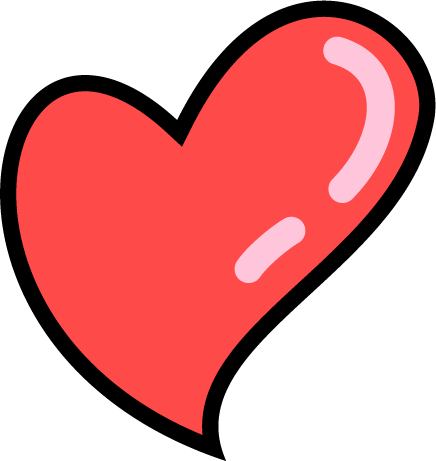
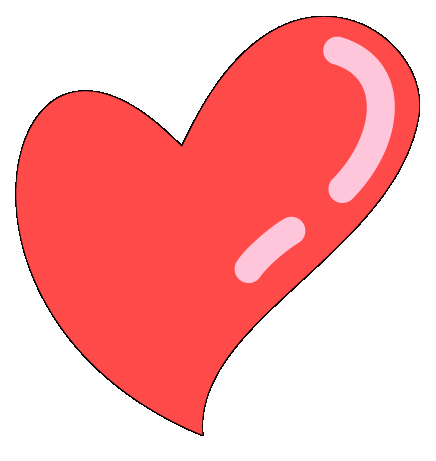
Give hearts the same lit cards as grass, without SAO rectangles
Punch leftover black paper from the heart texture, render hearts as standard-material planes that receive light and cast blade-shaped shadows, and hide them during the SAO depth pass.

Changed region(s): [[0.0, 0.0, 1.0, 1.0]]

diff --git a/src/entities/Target.ts b/src/entities/Target.ts
@@ -67,7 +67,7 @@ export class Target {
   private onEscape: ((t: Target) => void) | null = null;
   private onFreeSlot: (() => void) | null = null;
   private visual: THREE.Object3D;
-  private spriteMat: THREE.SpriteMaterial | null = null;
+  private heartMat: THREE.MeshStandardMaterial | null = null;
   private ownsGoldMaterials = false;
   private fading = false;
   private fadeT = 0;
@@ -79,7 +79,7 @@ export class Target {
   private warned = false;
   private slotFreed = false;
   private frenzyGlowMats: Array<{
-    mat: THREE.MeshBasicMaterial | THREE.SpriteMaterial;
+    mat: THREE.Material & { opacity: number };
     baseOpacity: number;
   }> = [];
   private frenzyGlowPulse = 0;
@@ -151,19 +151,10 @@ export class Target {
       this.ownsGoldMaterials = true;
       this.root.add(this.visual);
     } else {
-      const map = ModelCache.getTexture('heart');
-      this.spriteMat = new THREE.SpriteMaterial({
-        map,
-        transparent: true,
-        depthTest: true,
-        depthWrite: false,
-        opacity: 1,
-      });
-      const sprite = new THREE.Sprite(this.spriteMat);
-      const size = gameConfig.heartSize;
-      sprite.scale.set(size, size, 1);
-      this.visual = sprite;
-      this.root.add(sprite);
+      const mesh = ModelCache.createHeart();
+      this.heartMat = mesh.material as THREE.MeshStandardMaterial;
+      this.visual = mesh;
+      this.root.add(mesh);
     }
 
     const proxy = ModelCache.createHitProxy();
@@ -177,6 +168,7 @@ export class Target {
     this.setupPath(spec);
     scene.add(this.root);
     this.root.scale.setScalar(0.01);
+    if (kind === 'heart') this.visual.lookAt(0, this.root.position.y, 635);
   }
 
   /**
@@ -184,19 +176,39 @@ export class Target {
    * not a detached halo).
    */
   private attachFrenzyGlow(): void {
-    const size =
-      this.kind === 'heart' ? gameConfig.heartSize : gameConfig.targetSize;
+    // Heart cards use a mapped additive plane — BackSide shells would be a
+    // solid rectangle around the transparent quad.
+    if (this.kind === 'heart' && this.heartMat && this.visual instanceof THREE.Mesh) {
+      for (const shell of [
+        { scale: 1.12, opacity: 1 },
+        { scale: 1.24, opacity: 0.675 },
+      ]) {
+        const backMat = this.heartMat.clone();
+        backMat.color.setHex(0x3aa8ff);
+        backMat.opacity = shell.opacity;
+        backMat.depthWrite = false;
+        backMat.blending = THREE.AdditiveBlending;
+        backMat.transparent = true;
+        this.frenzyGlowMats.push({ mat: backMat, baseOpacity: shell.opacity });
+        const back = new THREE.Mesh(this.visual.geometry, backMat);
+        back.scale.setScalar(shell.scale);
+        back.position.z = -0.02;
+        back.castShadow = false;
+        back.receiveShadow = false;
+        back.userData.skipSao = true;
+        this.visual.add(back);
+      }
+      return;
+    }
 
     // Collect first — adding children during traverse would recurse forever.
     const meshes: THREE.Mesh[] = [];
     this.visual.traverse((obj) => {
       if (!(obj instanceof THREE.Mesh) || !obj.geometry) return;
-      // Skip invisible hit proxies if any got parented under visual.
       if (obj.material instanceof THREE.MeshBasicMaterial && !obj.material.visible) return;
       meshes.push(obj);
     });
 
-    // Two shells: bright rim + softer outer glow (thicker / +50% opacity).
     const shells: Array<{ scale: number; opacity: number; color: number }> = [
       { scale: 1.068, opacity: 1, color: 0x5ec8ff },
       { scale: 1.135, opacity: 0.825, color: 0x2a8cff },
@@ -216,25 +228,6 @@ export class Target {
         outline.scale.setScalar(shell.scale);
         outline.renderOrder = (obj.renderOrder || 0) - 1;
         obj.add(outline);
-      }
-    }
-
-    // Heart sprite — blue silhouette rim behind the icon.
-    if (this.kind === 'heart' && this.spriteMat) {
-      for (const shell of [
-        { scale: 1.12, opacity: 1 },
-        { scale: 1.24, opacity: 0.675 },
-      ]) {
-        const backMat = this.spriteMat.clone();
-        backMat.color.setHex(0x3aa8ff);
-        backMat.opacity = shell.opacity;
-        backMat.depthWrite = false;
-        backMat.blending = THREE.AdditiveBlending;
-        this.frenzyGlowMats.push({ mat: backMat, baseOpacity: shell.opacity });
-        const back = new THREE.Sprite(backMat);
-        back.scale.set(size * shell.scale, size * shell.scale, 1);
-        back.position.z = -0.5;
-        this.root.add(back);
       }
     }
   }
@@ -449,10 +442,10 @@ export class Target {
         const h = this.knockHalfH;
         this.visual.position.set(0, h * (Math.cos(angle) - 1), h * Math.sin(angle));
         // Soft fade on the last third so the body clears cleanly.
-        if (this.spriteMat) this.spriteMat.opacity = t < 0.65 ? 1 : 1 - (t - 0.65) / 0.35;
+        if (this.heartMat) this.heartMat.opacity = t < 0.65 ? 1 : 1 - (t - 0.65) / 0.35;
       } else {
         this.root.scale.setScalar(this.startScale * (1 - 0.7 * t));
-        if (this.spriteMat) this.spriteMat.opacity = 1 - t;
+        if (this.heartMat) this.heartMat.opacity = 1 - t;
       }
       if (t >= 1) this.destroy();
       return;
@@ -510,6 +503,10 @@ export class Target {
     }
 
     this.root.scale.setScalar(pop);
+
+    if (this.kind === 'heart' && !this.knockDown) {
+      this.visual.lookAt(0, this.root.position.y, 635);
+    }
 
     // Path movers keep going until the route ends — don't cut them mid-path.
     // Close targets telegraph exit by sinking (no blink-out). Windows still blink.
@@ -589,7 +586,10 @@ export class Target {
       ModelCache.disposeGoldMaterials(this.visual);
       this.ownsGoldMaterials = false;
     }
+    if (this.visual instanceof THREE.Mesh && this.heartMat) {
+      ModelCache.disposeHeart(this.visual);
+      this.heartMat = null;
+    }
     this.root.parent?.remove(this.root);
-    this.spriteMat?.dispose();
   }
 }

diff --git a/src/world/ModelCache.ts b/src/world/ModelCache.ts
@@ -48,6 +48,10 @@ export class ModelCache {
 
     heartMap.colorSpace = THREE.SRGBColorSpace;
     heartMap.anisotropy = 1;
+    heartMap.generateMipmaps = false;
+    heartMap.minFilter = THREE.LinearFilter;
+    heartMap.magFilter = THREE.LinearFilter;
+    heartMap.needsUpdate = true;
     this.textures.set('heart', heartMap);
 
     this.templates.set('bubble', this.normalizeTemplate(bubbleGltf.scene, gameConfig.targetSize));
@@ -113,6 +117,50 @@ export class ModelCache {
       }
     });
     for (const map of maps) map.dispose();
+  }
+
+  private static heartGeo: THREE.PlaneGeometry | null = null;
+  private static heartDepthMat: THREE.MeshDepthMaterial | null = null;
+  private static heartAspect = 1;
+
+  /** Lit, shadow-casting heart card. Caller must dispose the cloned material. */
+  static createHeart(): THREE.Mesh {
+    const map = this.getTexture('heart');
+    if (!this.heartGeo) {
+      this.heartGeo = new THREE.PlaneGeometry(1, 1);
+      this.heartDepthMat = new THREE.MeshDepthMaterial({
+        map,
+        alphaTest: 0.55,
+        depthPacking: THREE.RGBADepthPacking,
+      });
+      const img = map.image as { width: number; height: number };
+      this.heartAspect = img.width / Math.max(1, img.height);
+    }
+    const mat = new THREE.MeshStandardMaterial({
+      map,
+      color: 0xffffff,
+      metalness: 0,
+      roughness: 0.72,
+      transparent: true,
+      alphaTest: 0.55,
+      depthTest: true,
+      depthWrite: true,
+      side: THREE.DoubleSide,
+    });
+    const mesh = new THREE.Mesh(this.heartGeo, mat);
+    const size = gameConfig.heartSize;
+    mesh.scale.set(size * this.heartAspect, size, 1);
+    mesh.castShadow = true;
+    mesh.receiveShadow = true;
+    mesh.frustumCulled = true;
+    mesh.customDepthMaterial = this.heartDepthMat!;
+    mesh.userData.skipSao = true;
+    return mesh;
+  }
+
+  static disposeHeart(mesh: THREE.Mesh): void {
+    const mat = mesh.material;
+    if (mat instanceof THREE.Material) mat.dispose();
   }
 
   private static normalizeTemplate(root: THREE.Object3D, targetSize: number): THREE.Object3D {

diff --git a/src/core/Game.ts b/src/core/Game.ts
@@ -87,7 +87,15 @@ export class Game {
     const saoRender = this.saoPass.render.bind(this.saoPass);
     this.saoPass.render = (renderer, writeBuffer, readBuffer, deltaTime, maskActive) => {
       getCastleStage()?.setGrassInSao(false);
+      const skipped: THREE.Object3D[] = [];
+      this.scene.traverse((obj) => {
+        if (obj.userData.skipSao && obj.visible) {
+          obj.visible = false;
+          skipped.push(obj);
+        }
+      });
       saoRender(renderer, writeBuffer, readBuffer, deltaTime, maskActive);
+      for (const obj of skipped) obj.visible = true;
       getCastleStage()?.setGrassInSao(true);
     };
 
